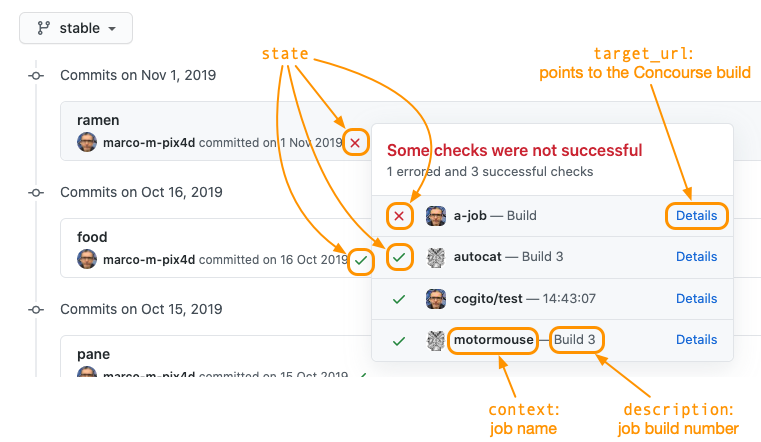
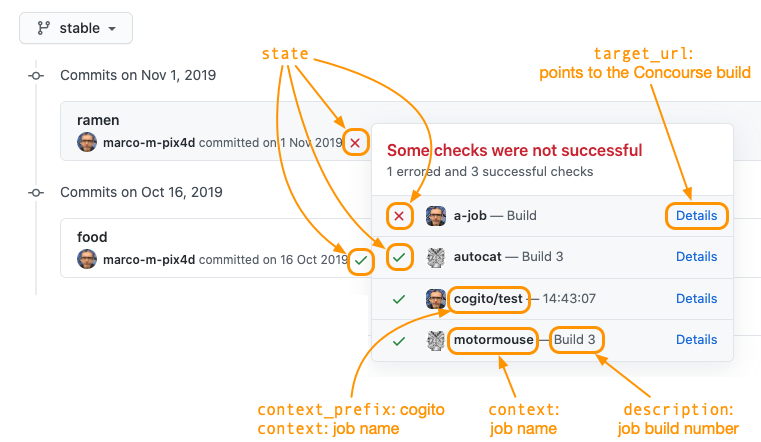
implement context_prefix (was: context_namespace)

diff --git a/resource/resource_test.go b/resource/resource_test.go
@@ -1,8 +1,10 @@
 package resource
 
 import (
+	"encoding/json"
 	"errors"
 	"fmt"
+	"io"
 	"io/ioutil"
 	"net/http"
 	"net/http/httptest"
@@ -110,16 +112,6 @@ func TestIn(t *testing.T) {
 
 func TestOut(t *testing.T) {
 	cfg := help.FakeTestCfg
-	ts := httptest.NewServer(http.HandlerFunc(func(w http.ResponseWriter, r *http.Request) {
-		w.WriteHeader(http.StatusCreated)
-		fmt.Fprintln(w, "Anything goes...")
-	}))
-	savedAPI := github.API
-	github.API = ts.URL
-	defer func() {
-		ts.Close()
-		github.API = savedAPI
-	}()
 
 	defSource := oc.Source{"access_token": cfg.Token, "owner": cfg.Owner, "repo": cfg.Repo}
 	defParams := oc.Params{"state": "error"}
@@ -134,6 +126,7 @@ func TestOut(t *testing.T) {
 	type want struct {
 		version  oc.Version
 		metadata oc.Metadata
+		body     map[string]string
 		err      error
 	}
 	var testCases = []struct {
@@ -143,36 +136,53 @@ func TestOut(t *testing.T) {
 	}{
 		{"valid mandatory sources",
 			in{defSource, defParams, defEnv},
-			want{defVersion, defMeta, nil},
+			want{defVersion, defMeta, nil, nil},
 		},
 		{"missing mandatory sources",
 			in{oc.Source{}, defParams, defEnv},
-			want{nil, nil, &missingSourceError{}},
+			want{nil, nil, nil, &missingSourceError{}},
 		},
 		{"unknown source",
 			in{oc.Source{"access_token": "x", "owner": "a", "repo": "b", "pizza": "napoli"},
 				defParams, defEnv},
-			want{nil, nil, &unknownSourceError{}},
+			want{nil, nil, nil, &unknownSourceError{}},
 		},
 		{"valid mandatory parameters",
 			in{defSource, defParams, defEnv},
-			want{defVersion, defMeta, nil},
+			want{defVersion, defMeta, nil, nil},
 		},
 		{"completely missing mandatory parameters",
 			in{defSource, oc.Params{}, defEnv},
-			want{nil, nil, &missingParamError{}},
+			want{nil, nil, nil, &missingParamError{}},
 		},
 		{"invalid state parameter",
 			in{defSource, oc.Params{"state": "hello"}, defEnv},
-			want{nil, nil, &invalidParamError{}},
+			want{nil, nil, nil, &invalidParamError{}},
 		},
 		{"unknown parameter",
 			in{defSource, oc.Params{"state": "pending", "pizza": "margherita"}, defEnv},
-			want{nil, nil, &unknownParamError{}},
+			want{nil, nil, nil, &unknownParamError{}},
 		},
 		{"do not return a nil version the first time it runs (see Concourse PR #4442)",
 			in{defSource, defParams, defEnv},
-			want{defVersion, defMeta, nil},
+			want{defVersion, defMeta, nil, nil},
+		},
+		{"source: optional: context_prefix",
+			in{
+				oc.Source{
+					"access_token":   cfg.Token,
+					"owner":          cfg.Owner,
+					"repo":           cfg.Repo,
+					"context_prefix": "cocco"},
+				defParams,
+				defEnv,
+			},
+			want{
+				defVersion,
+				defMeta,
+				map[string]string{"context": "cocco/" + defEnv.Get("BUILD_JOB_NAME")},
+				nil,
+			},
 		},
 	}
 
@@ -180,6 +190,31 @@ func TestOut(t *testing.T) {
 		t.Run(tc.name, func(t *testing.T) {
 			inDir, teardown := setup(t, defDir, sshRemote(cfg.Owner, cfg.Repo), cfg.SHA, cfg.SHA)
 			defer teardown(t)
+
+			ts := httptest.NewServer(http.HandlerFunc(func(w http.ResponseWriter, r *http.Request) {
+				w.WriteHeader(http.StatusCreated)
+				fmt.Fprintln(w, "Anything goes...")
+
+				if tc.want.body != nil {
+					buf, _ := io.ReadAll(r.Body)
+					var bm map[string]string
+					if err := json.Unmarshal(buf, &bm); err != nil {
+						t.Fatalf("parsing JSON body: %v", err)
+					}
+					for k, v := range tc.want.body {
+						if bm[k] != v {
+							t.Errorf("\nbody[%q]: got: %q; want: %q", k, bm[k], v)
+						}
+					}
+				}
+
+			}))
+			savedAPI := github.API
+			github.API = ts.URL
+			defer func() {
+				ts.Close()
+				github.API = savedAPI
+			}()
 
 			r := Resource{}
 			version, metadata, err := r.Out(

diff --git a/resource/resource.go b/resource/resource.go
@@ -48,9 +48,9 @@ var (
 	}
 
 	optionalSources = map[string]struct{}{
-		"log_level":         {},
-		"log_url":           {},
-		"context_namespace": {},
+		"log_level":      {},
+		"log_url":        {},
+		"context_prefix": {},
 	}
 )
 
@@ -212,8 +212,8 @@ func (r *Resource) Out(
 	pipeline := env.Get("BUILD_PIPELINE_NAME")
 	job := env.Get("BUILD_JOB_NAME")
 	context := job
-	if ns, _ := source["context_namespace"].(string); ns != "" {
-		context = fmt.Sprintf("%s/%s", ns, context)
+	if prefix, _ := source["context_prefix"].(string); prefix != "" {
+		context = fmt.Sprintf("%s/%s", prefix, context)
 	}
 
 	status := github.NewStatus(github.API, token, owner, repo, context)

diff --git a/CHANGELOG.md b/CHANGELOG.md
@@ -5,11 +5,17 @@ All notable changes to this project will be documented in this file.
 The format is based on [Keep a Changelog](https://keepachangelog.com/en/1.0.0/),
 and this project adheres to [Semantic Versioning](https://semver.org/spec/v2.0.0.html).
 
-## [v0.5.0] - 2021-03-XX
+## UNRELEASED [v0.5.0] - 2021-03-XX
 
 ### Changed
 
-- tests: where it makes sense, removed the need to perform E2E tests. For the `resource` package, total coverage stayed the same, but the non-E2E coverage went from 53% to 89%.
+- tests: where it makes sense, remove the need to perform E2E tests. For the `resource` package, total coverage stayed the same, but the non-E2E coverage went from 53% to 89%.
+
+### Added
+
+- Optional source configuration `context_prefix`, that will be prepended to the context. See [Effects on GitHub](README.md#effects-on-github) of the README.
+  Thanks @tgolsson for the discussion (#24) and for the initial implementation (#25). Thanks @eitah for a similar discussion (#23).
+
 
 ## [v0.4.0] - 2021-03-05
 
@@ -84,3 +90,4 @@ and this project adheres to [Semantic Versioning](https://semver.org/spec/v2.0.0
 [v0.2.1]: https://github.com/Pix4D/cogito/releases/tag/v0.2.1
 [v0.3.0]: https://github.com/Pix4D/cogito/releases/tag/v0.3.0
 [v0.4.0]: https://github.com/Pix4D/cogito/releases/tag/v0.4.0
+[v0.5.0]: https://github.com/Pix4D/cogito/releases/tag/v0.5.0

diff --git a/README.md b/README.md
@@ -113,6 +113,7 @@ With reference to the [GitHub status API], the `POST` parameters (`state`, `targ
 
 ## Optional
 
+- `context_prefix`: The prefix for the context (see section [Effects on GitHub](#effects-on-github)). If present, the context will be `context_prefix/job_name` Default: empty (that is, the context will be: `job_name`).
 - `log_level`: The log level (one of `debug`, `info`, `warn`, `error`, `silent`). Default: `info`.
 - `log_url`. A Google Hangout Chat webhook. Useful to obtain logging for the `check` step for Concourse < 7.
 
